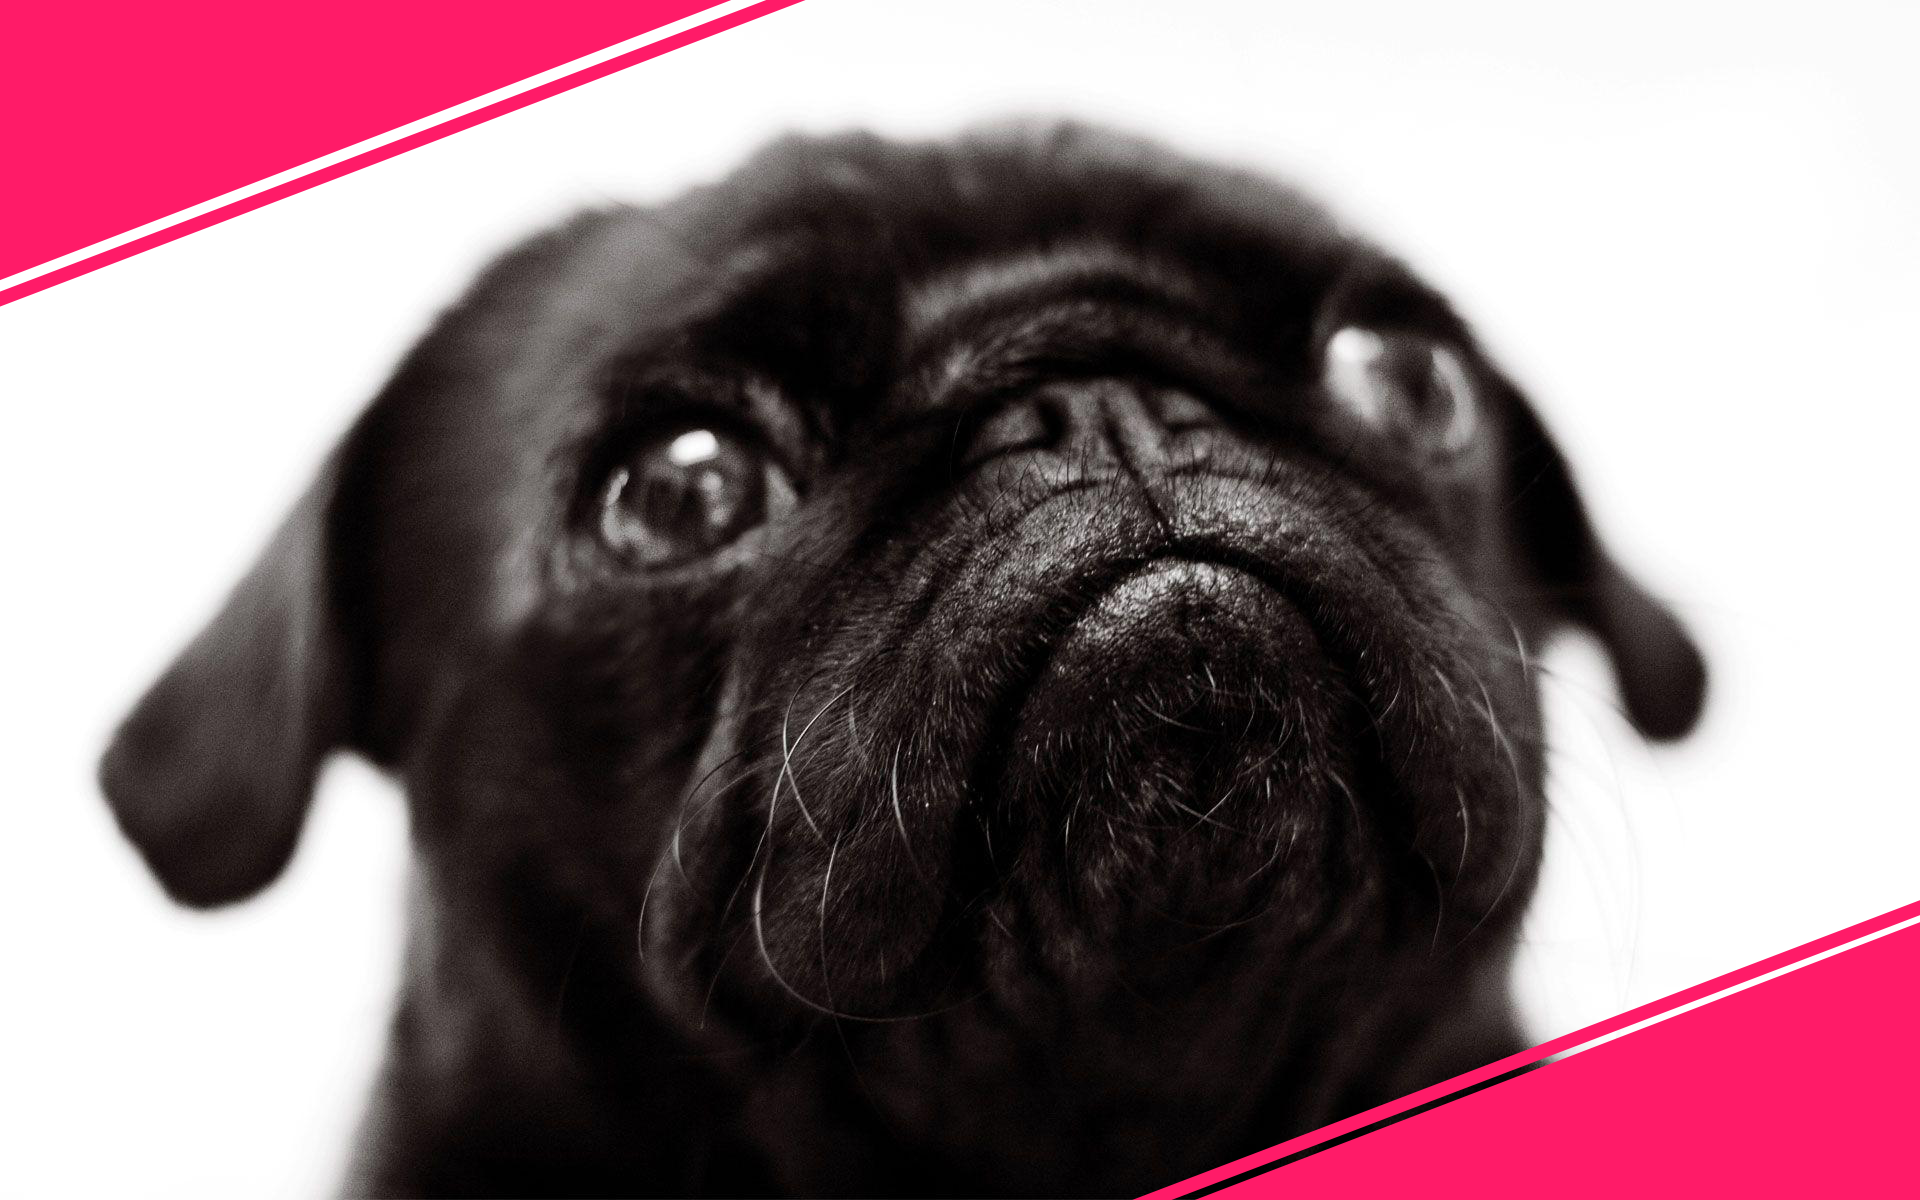
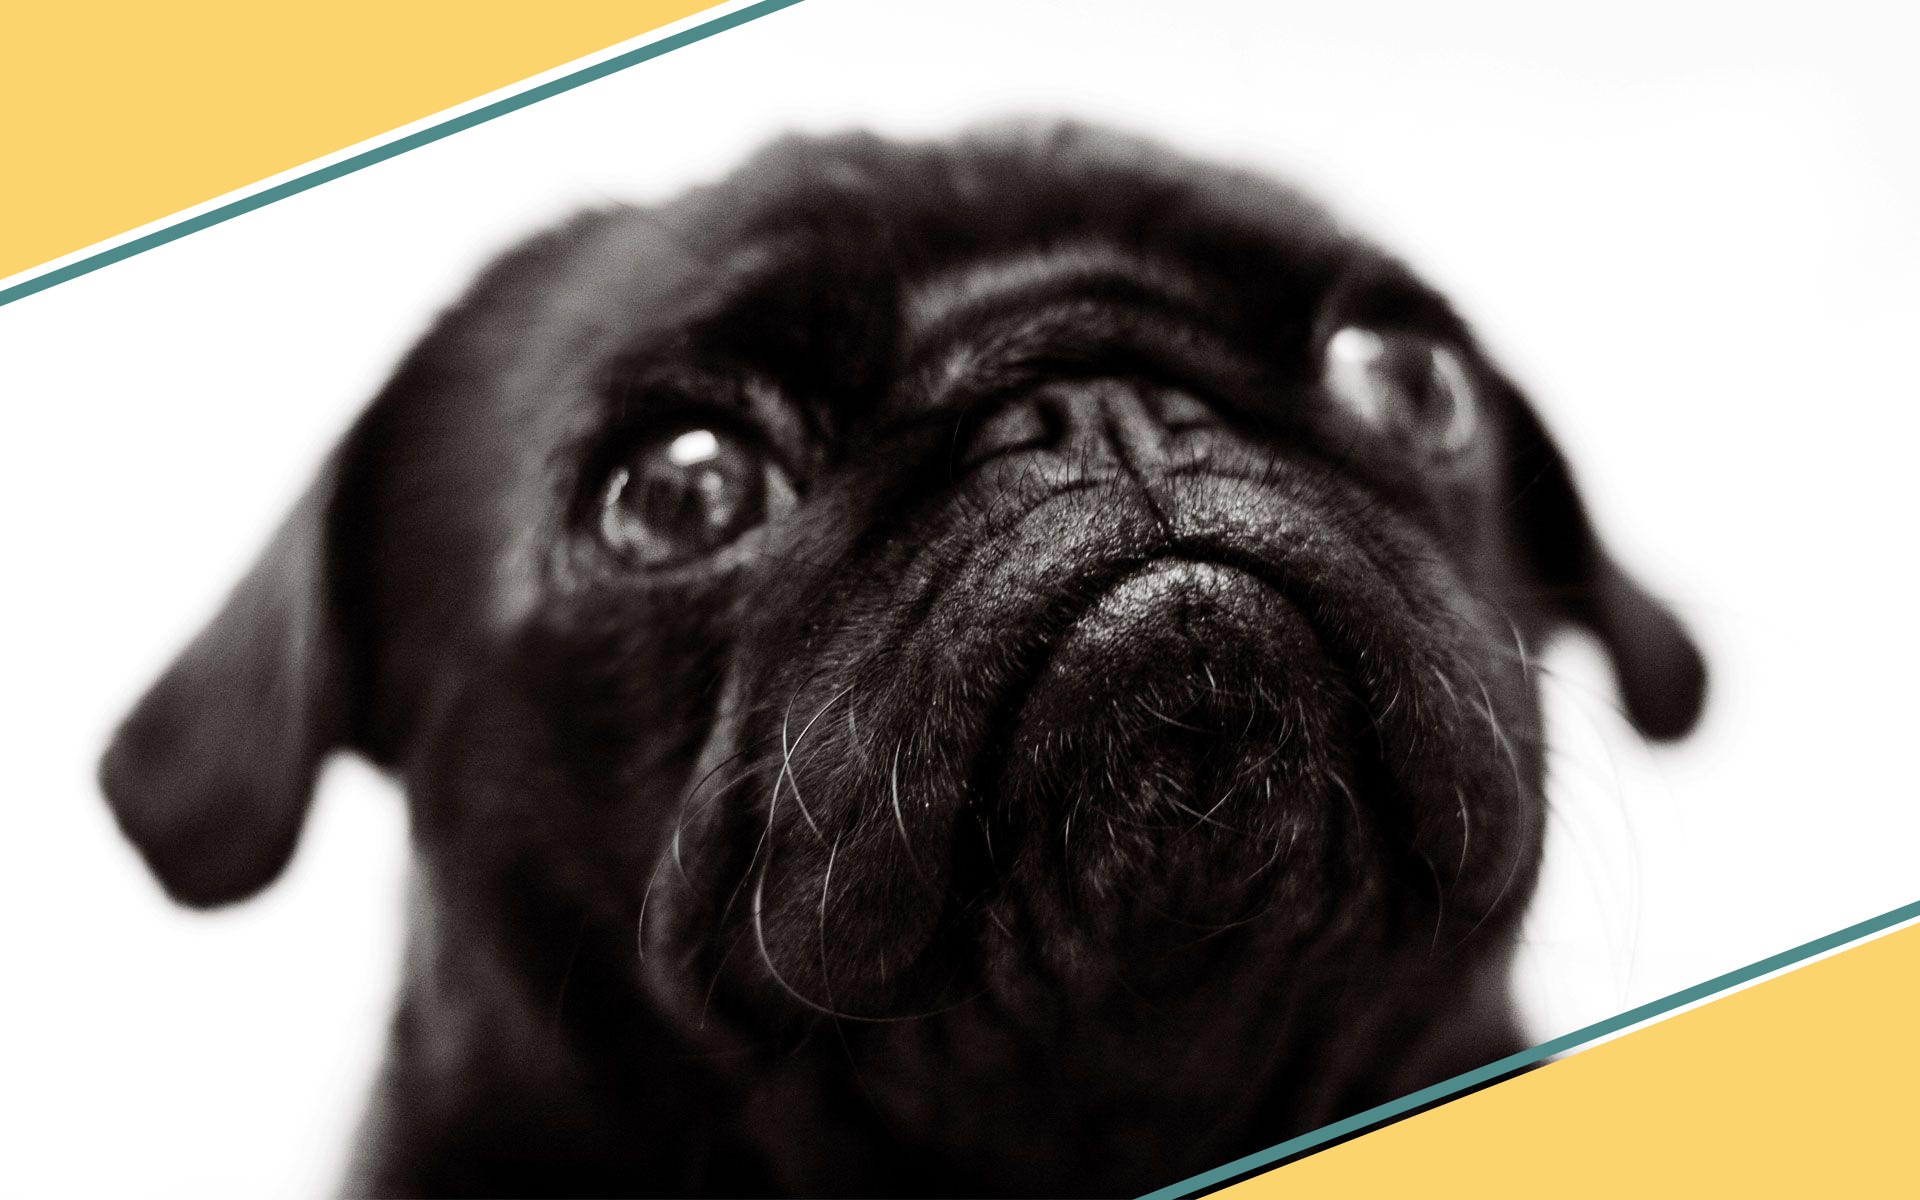
Update color pallet homepage

Changed region(s): [[0.5938, 0.74, 1.0, 1.0], [0.0, 0.0, 0.4062, 0.2467]]

diff --git a/Website/main.css b/Website/main.css
@@ -1,3 +1,4 @@
+/*Color pallet: white-graysh #EEEEEE , dark-blue #212832, light-blueish #4E8A8A, yellowish #FBD46D*/
 * {
   box-sizing: border-box;
 }
@@ -6,7 +7,7 @@ body {
   height: 100%;
   font-family: 'Kanit', sans-serif;
   margin: 0;
-  background-color:whitesmoke;
+  background-color:#EEEEEE;
 }
 
 main{
@@ -40,7 +41,7 @@ main{
   position: fixed;
   top: 0;
   left: 0;
-  background: #2ddf5c;
+  background: #4E8A8A;
   padding: 0.5rem 0.2rem;
   z-index: 1;
   display: flex;
@@ -66,14 +67,14 @@ main{
 .toggle-button_bar {
   width: 100%;
   height: 0.25rem;
-  background: black;
+  background: #FBD46D;
   display: block;
   margin: 0.5rem 0;
   border-radius: 2px;
 }
 
 .main-header_brand {
-  color: #0e4f1f;
+  color: #FBD46D;
   text-decoration: none;
   font-weight: bold;
   font-size: 1.5rem;
@@ -104,21 +105,21 @@ main{
 .main-nav_item a,
 .mobile-nav_item a {
   text-decoration: none;
-  color: #0e4f1f;
+  color: #212832;
   font-weight: bold;
   padding: 0.2rem 0;
 }
 
 .main-nav_item a:hover,
 .main-nav_item a:active {
-  color: white;
-  border-bottom: 3px solid white;
+  color: #eeeeee;
+  border-bottom: 3px solid #eeeeee;
 }
 
 .main-nav_item--cta a,
 .mobile-nav_item--cta a {
   color: white;
-  background: #ff1b68;
+  background: #FBD46D;
   padding: 0.5rem 1rem;
   border-radius: 8px;
   font-family: 'Bangers', cursive;
@@ -128,7 +129,7 @@ main{
 .main-nav_item--cta a:active,
 .mobile-nav_item--cta a:hover,
 .mobile-nav_item--cta a:active {
-  color: #ff1b68;
+  color:#FBD46D;
   background: white;
   border: none;
 }
@@ -144,7 +145,7 @@ main{
   background-size: cover;
   justify-content: center;
   align-items: flex-end;
-  border-bottom: 3px solid #ff1b68;
+  border-bottom: 3px solid#FBD46D;
   border-radius: 0px 0px 10px 10px;
 }
 
@@ -153,7 +154,7 @@ main{
   width: 140px;
   height: 50px;
   color: white;
-  background: #ff1b68;
+  background: #FBD46D;
   border: none;
   border-radius: 8px;
   cursor: pointer;
@@ -163,7 +164,7 @@ main{
 }
 
 .adv-donate-btn:hover{
-  color: #ff1b68;
+  color: #FBD46D;
   background: whitesmoke;
 }
 
@@ -186,30 +187,30 @@ main{
 }
 
 .d-medicine{
-  background-color: #ff1b68;
+  background-color:#212832;
   border-radius: 10px;
 }
 
 .d-medicine:hover{
-  box-shadow: 2px 2px 6px 0px #ff1b68;
+  box-shadow: 2px 2px 6px 0px #212832;
 }
 
 .d-food{
-  background-color: #2ddf5c;
+  background-color: #FBD46D;
   border-radius: 10px;
 }
 
 .d-food:hover{
-  box-shadow: 2px 2px 6px 0px #0e4f1f;
+  box-shadow: 2px 2px 6px 0px #FBD46D;
 }
 
 .d-toys{
-  background-color: teal;
+  background-color: #4E8A8A;
   border-radius: 10px;
 }
 
 .d-toys:hover{
-  box-shadow: 2px 2px 6px 0px teal;
+  box-shadow: 2px 2px 6px 0px #4E8A8A;
 }
 
 .adv-title{
@@ -234,7 +235,7 @@ main{
   color: whitesmoke;
   letter-spacing: 2px;
   clip-path: polygon(100% 0, 100% 50%, 93% 100%, 0% 100%, 0 51%, 0% 0%);
-  background-color:#2ddf5c;
+  background-color:#4E8A8A;
   width: 100%;
   padding: 10px;
 }
@@ -247,7 +248,7 @@ main{
   font-family: 'Bangers', cursive;
   color: whitesmoke;
   letter-spacing: 2px;
-  background-color: #ff1b68;
+  background-color: #212832;
 }
 
 .new-pet{
@@ -276,20 +277,20 @@ main{
 .pet-card a{
   text-decoration: none;
   color: white;
-  background: #ff1b68;
+  background: #212832;
   padding: 0.5rem 1rem;
   border-radius: 8px;
   font-family: 'Bangers', cursive;
 }
 
 .pet-card:hover{
-  box-shadow: 0 0 6px 1px #ff1b68;
+  box-shadow: 0 0 6px 1px #212832;
 }
 
 .pet-card a:hover{
-  color: #ff1b68;
-  background: whitesmoke;
-  border: 1px solid #ff1b68;
+  color: #212832;
+  background: #eeeeee;
+  border: 1px solid #212832;
 }
 
 .new-pet-card,
@@ -306,14 +307,14 @@ main{
   width: 100%;
   height: 250px;
   border-radius: 5px 5px 5px 5px;
-  border-bottom: 2px solid #ff1b68;
+  border-bottom: 2px solid #212832;
 }
 
 .new-pet-card img{
   width: 100%;
   height: 250px;
   border-radius: 5px 5px 5px 5px;
-  border-bottom: 2px solid #2ddf5c;
+  border-bottom: 2px solid #212832;
 }
 
 .new-pet-text,
@@ -326,14 +327,14 @@ main{
 font-size: 1.5rem;
 text-align: center;
 font-family: 'Bangers', cursive;
-color: #ff1b68;
+color: #212832;
 }
 
 .new-pet-card h3{
 font-size: 1.5rem;
 text-align: center;
 font-family: 'Bangers', cursive;
-color: #2ddf5c;
+color: #212832;
 }
 .f-pets{
   grid-area: pets;
@@ -342,7 +343,7 @@ color: #2ddf5c;
 /* footer section */
 .activity-tab{
 text-align: center;
-background-color: rgb(31, 31, 31);
+background-color: #212832;
 color: whitesmoke;
 border-radius: 20px 20px 0 0;
 }
@@ -356,10 +357,10 @@ border-radius: 20px 20px 0 0;
 #activity-find-out-btn{
   width: 100px;
   height: 40px;
-  background-color: #2ddf5c;
+  background-color: #FBD46D;
   border-radius: 3px;
   text-align: center;
-  border: 2px solid #2ddf5c;
+  border: 2px solid #FBD46D;
   font-size:1rem;
   font-weight: bold;
   font-family: 'Bangers', cursive;
@@ -370,12 +371,12 @@ border-radius: 20px 20px 0 0;
 
 #activity-find-out-btn:hover{
   background-color: whitesmoke;
-  color: #2ddf5c;
+  color: #FBD46D;
 }
 
 #social-features {
   margin-top: 10px;
-  background: #ff1b68;
+  background: #4E8A8A;
   padding: 1rem;
   border-radius: 60px 60px 0 0;
 }
@@ -517,7 +518,7 @@ border-radius: 20px 20px 0 0;
 
   .new-pet-card img{
     border-bottom: 0;
-    border-right: 2px solid #2ddf5c;
+    border-right: 5px solid #4E8A8A;
   }
 
   .f-pet-cards{

diff --git a/Website/index.html b/Website/index.html
@@ -5,6 +5,7 @@
     <meta http-equiv="X-UA-Compatible" content="ie=edge">
     <meta name="viewport" content="width=device-width, initial-scale=1.0">
     <title>Animal-Shelter-HomePage</title>
+    <link rel='shortcut icon' type='image/x-icon' href='images/favicon.ico' />
     <link rel="stylesheet" href="main.css">
     <link rel="stylesheet" href="https://use.fontawesome.com/releases/v5.12.1/css/all.css" crossorigin="anonymous">
     <link href="https://fonts.googleapis.com/css2?family=Bangers&display=swap" rel="stylesheet"> 
@@ -20,7 +21,7 @@
                 <span class="toggle-button_bar"></span>
             </button>
             <a href="index.html" class="main-header_brand">
-                <img src="images/logoShelter2.png" alt="Animal Shelter Logo">
+                <img src="images/logoShelter3.png" alt="Animal Shelter Logo">
             </a>
         </div>
         <nav class="main-nav">
